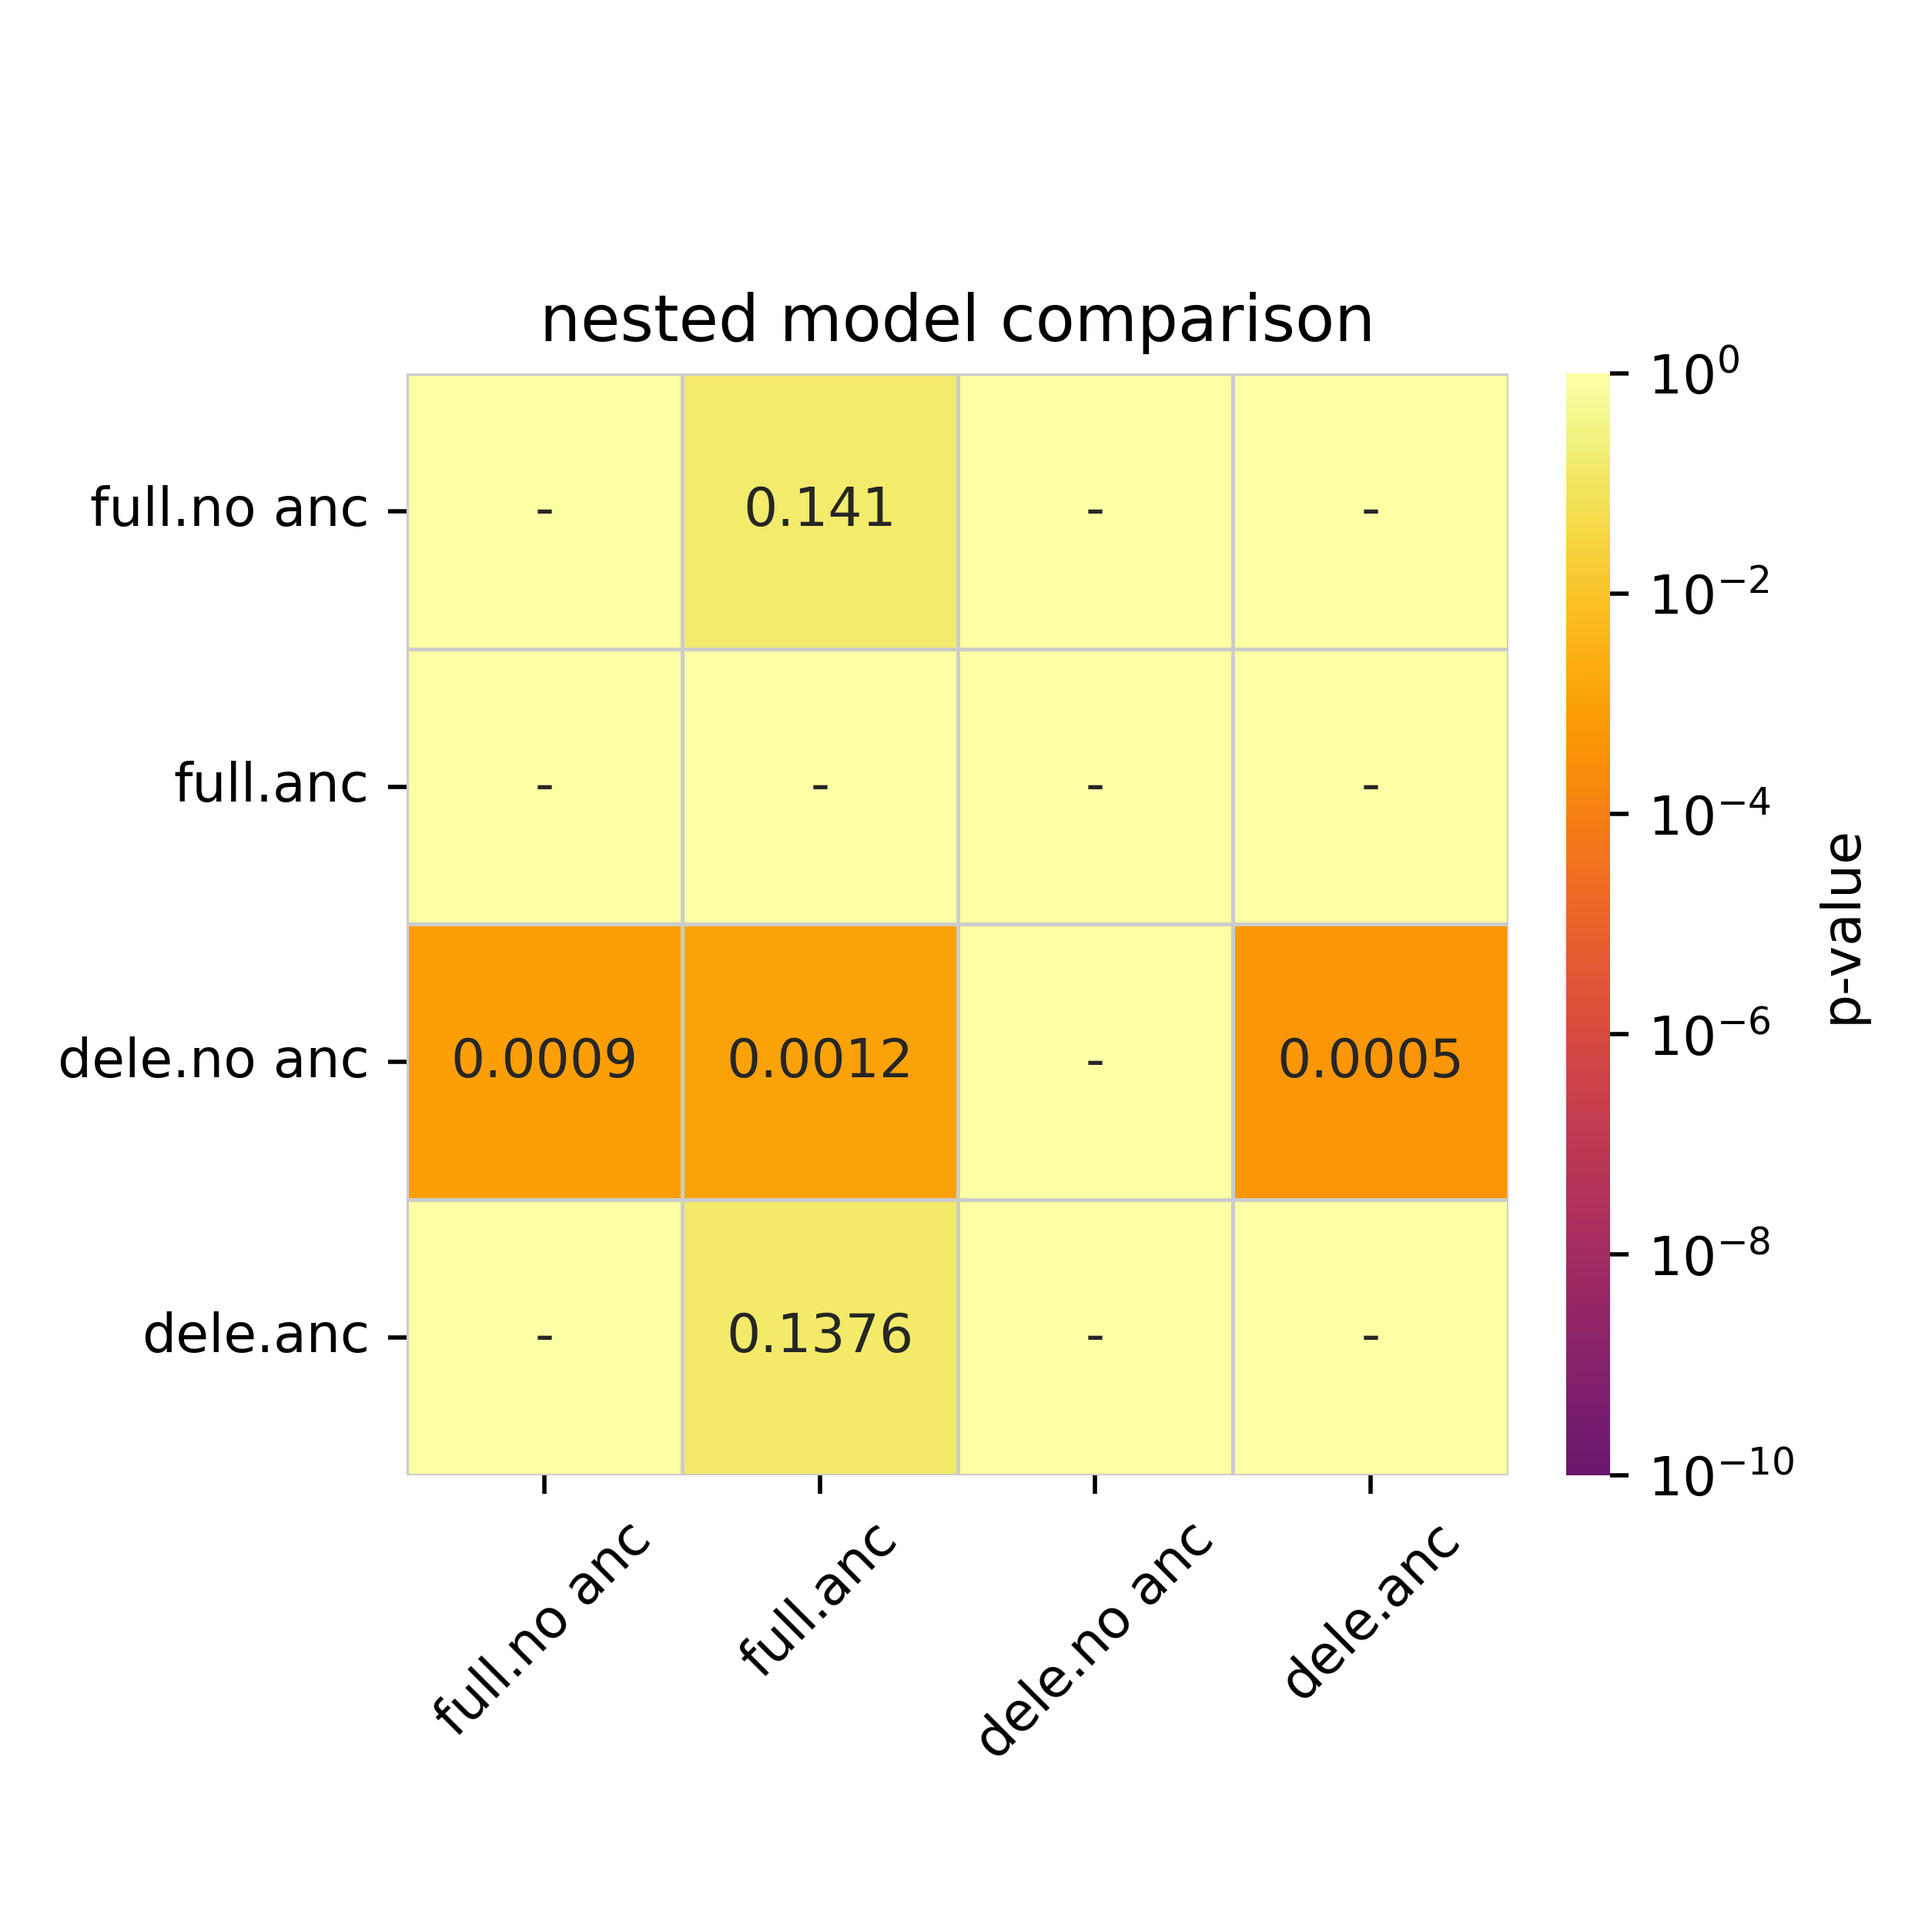
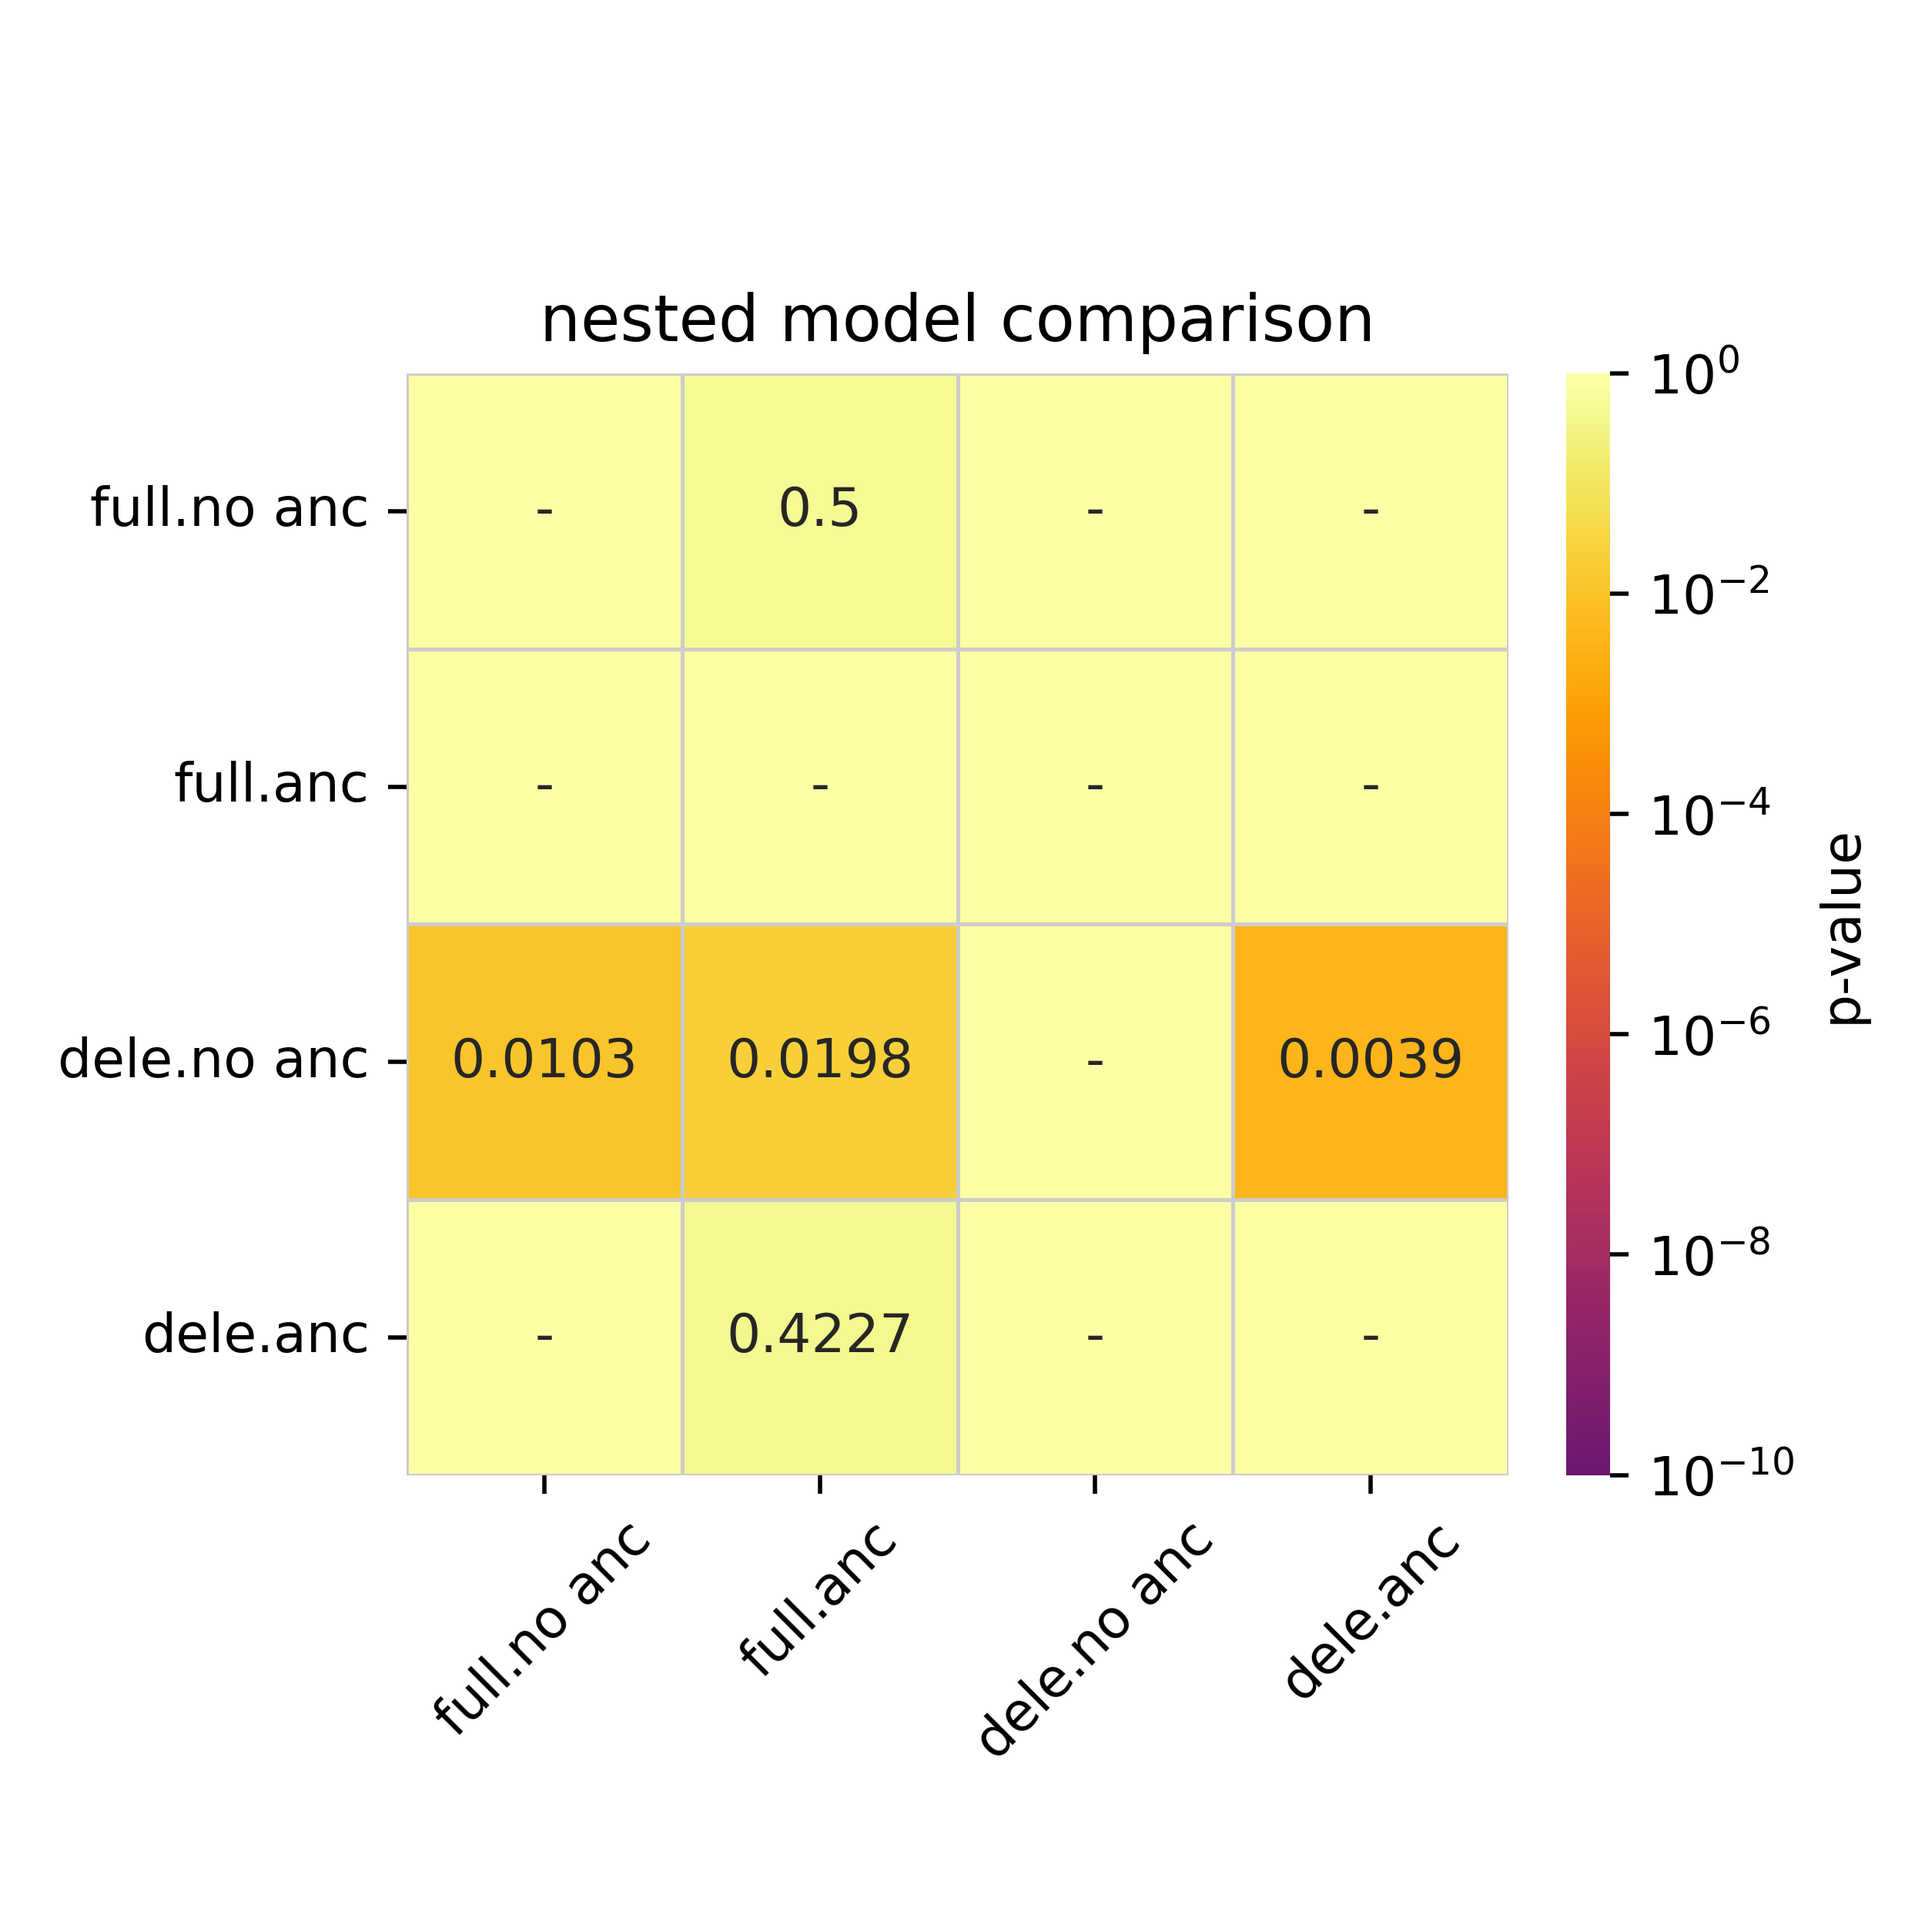
Update with version 1.2.1.

Changed region(s): [[0.1872, 0.468, 0.4992, 0.78], [0.624, 0.468, 0.78, 0.624], [0.3432, 0.1872, 0.4992, 0.3432]]

diff --git a/workflow/scripts/compare_nested.py b/workflow/scripts/compare_nested.py
@@ -28,13 +28,9 @@ print(f'p-value: {p1}')
 p2 = fd.BaseInference(
     sfs_neut=spectra['neutral'],
     sfs_sel=spectra['selected'],
-    do_bootstrap=True,
-    parallelize=False,
     fixed_params={'all': {'h': 0.5, 'p_b': 0, 'S_b': 1}}
 ).compare_nested(inf)
 print(f'p-value: {p2}')
-
-# increase margin of plot by default 0.05
 
 inf.plot_nested_models(show=False)
 plt.savefig('nested_models.png')

diff --git a/workflow/scripts/infer_dfe.py b/workflow/scripts/infer_dfe.py
@@ -12,7 +12,10 @@ spectra = fd.Spectra.from_file('sfs.csv')
 
 inf = fd.BaseInference(
     sfs_neut=spectra['neutral'],
-    sfs_sel=spectra['selected']
+    sfs_sel=spectra['selected'],
+    fixed_params={'all': {'h': 0.5, 'eps': 0, 'p_b': 0, 'S_b': 1}},
+    n_runs=10,
+    n_bootstraps=100,
 )
 
 inf.run()

diff --git a/workflow/scripts/infer_joint_dfe.py b/workflow/scripts/infer_joint_dfe.py
@@ -44,8 +44,8 @@ inf = fd.JointInference(
     fixed_params={'all': {'h': 0.5, 'eps': 0, 'p_b': 0, 'S_b': 1}},
     shared_params=[fd.SharedParams(types=['chr1', 'chr2'], params=['b'])]
 )
-inf.run()
 
+inf.run()
 p2 = inf.perform_lrt_shared()
 print(f'p-value (deleterious DFE, shared b): {p2}')
 
